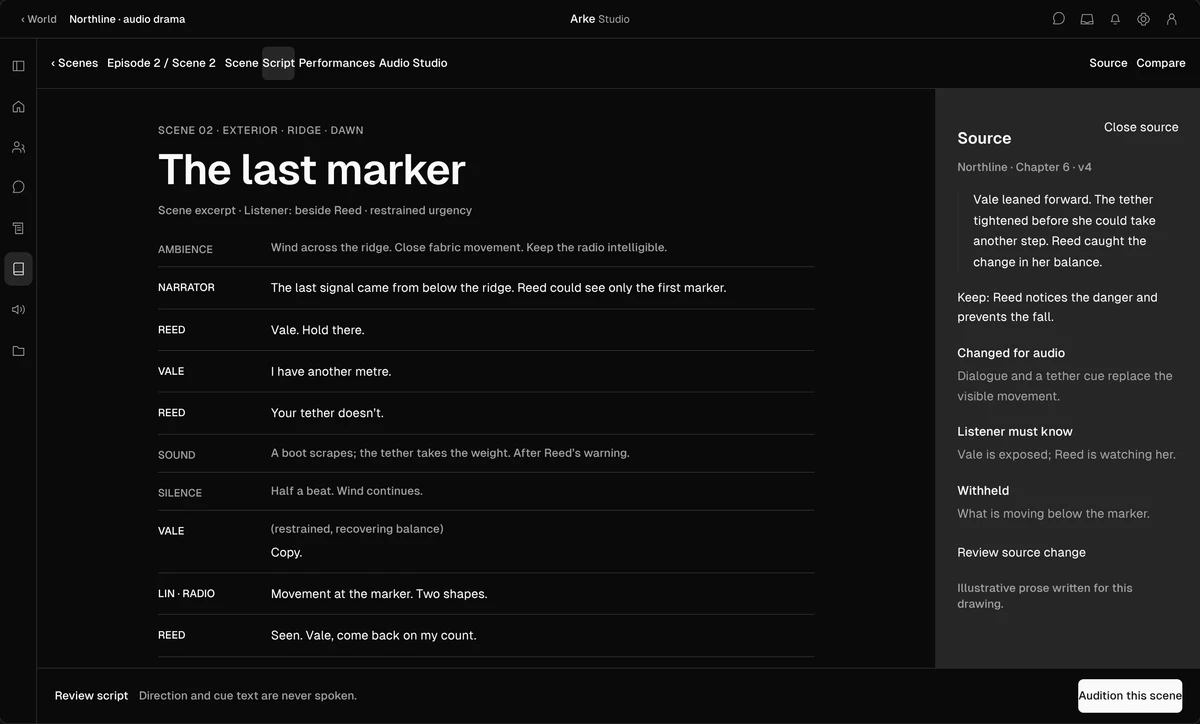
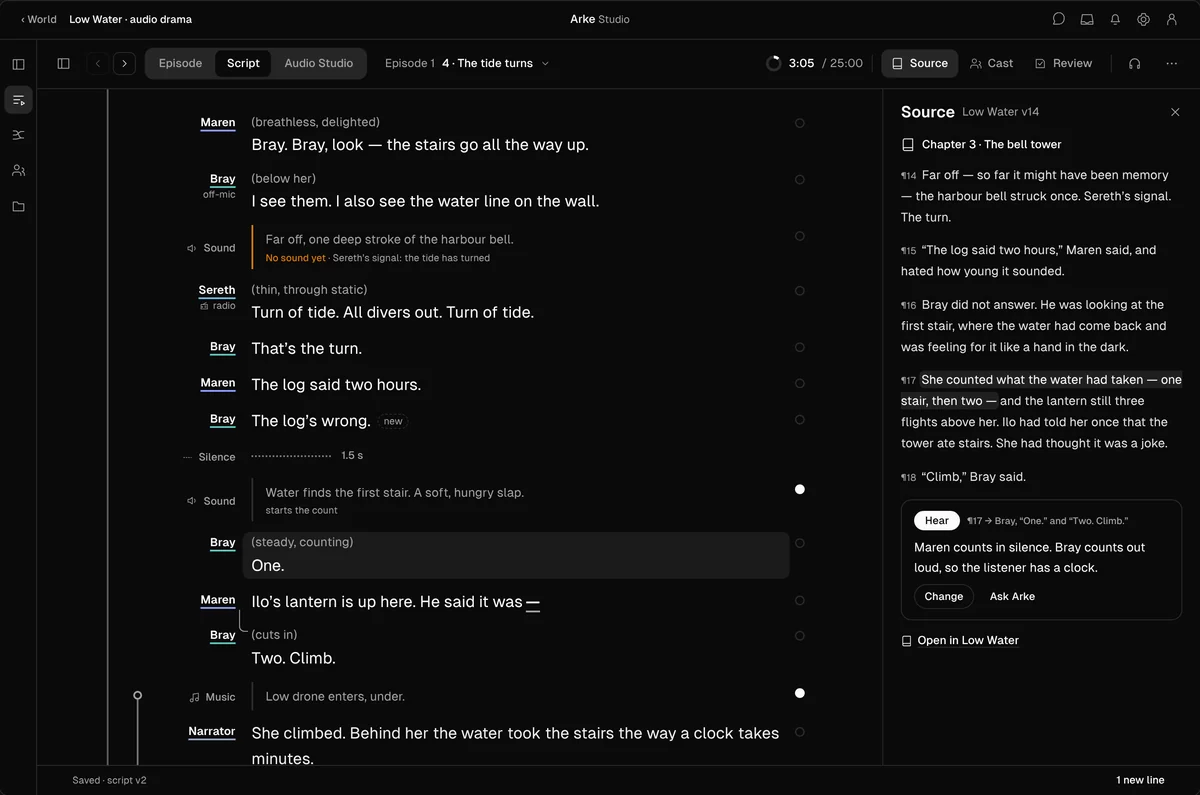
README: Audio Drama is built, and the features since are described
Audio Drama was described as a design proposal in three places; it is in the
app through to an edition. Adds sections for graphic novels, music and music
videos, Arke Player and the Guide, Arke directing a film (the Plan, the Look,
the checks), text clips and shots from another production in the cut, and
Clean up, with the status notes and What you can make brought up to date.

The new screenshots are rendered from the design master's dark theme, as the
existing ones are: turns 230, 233, 234, 238, 247, 271, 275, 277, 278, 285, 288.

Claude-Session: https://claude.ai/code/session_016gZtSHTwiva3276PZwG7kH

diff --git a/README.md b/README.md
@@ -10,7 +10,7 @@ because they share it.
 [![Latest release](https://img.shields.io/github/v/release/michaeljosiah/ArkeStudio?label=release)](https://github.com/michaeljosiah/ArkeStudio/releases/latest)
 [![Licence](https://img.shields.io/badge/licence-AGPL--3.0-black)](LICENSE)
 
-**[Write](#write-in-a-room-that-knows-your-world) · [Talk](#one-chat-from-anywhere) · [Listen](#the-book-reads-itself-aloud) · [Mix](#audio-studio) · [Publish](#publish-a-private-edition) · [Film](#from-script-to-screen) · [Anywhere](#on-every-screen-you-use)**
+**[Write](#write-in-a-room-that-knows-your-world) · [Talk](#one-chat-from-anywhere) · [Listen](#the-book-reads-itself-aloud) · [Mix](#audio-studio) · [Publish](#publish-a-private-edition) · [Film](#from-script-to-screen) · [Drama](#audio-drama) · [Draw](#graphic-novels) · [Music](#music) · [Player](#arke-player-and-the-worlds-guide) · [Anywhere](#on-every-screen-you-use)**
 
 </div>
 
@@ -18,6 +18,24 @@ because they share it.
 
 ## What's new
 
+- **Audio Drama.** A story adapted for the ear: a script of lines, sound and silence with the
+  novel beside it, takes heard in context, an episode mixed in Audio Studio and an edition
+  published as a podcast or an archive. [See it →](#audio-drama)
+- **Graphic novels.** A book planned and drawn page by page, each panel's picture and
+  lettering checked before you accept it, then read in the app or exported as CBZ, PDF and
+  EPUB. [See it →](#graphic-novels)
+- **Arke directs the film.** A place keeps its set and camera positions on a Plan, the
+  production keeps one Look, and every shot, take and cut carries a list of checks.
+  [See it →](#direct-the-film-with-arke)
+- **Music.** Albums, singles and soundtracks made from the world's music takes, sequenced
+  with gaps and crossfades. Music videos are cut to the song. [See it →](#music)
+- **Arke Player and the Guide.** Export a book, a story, a comic or an album as a package
+  for the phone app, with a Guide to the world that reveals only what a reader has reached.
+  [See it →](#arke-player-and-the-worlds-guide)
+- **More in the cut.** Text clips, clip speed and reverse, sound fades, a film grade and
+  grain, and accepted shots brought in from another production. [See it →](#text-speed-and-shots-from-elsewhere)
+- **Clean up.** A world's duplicate copies, old mixes and unused takes, sized and held
+  before anything is removed. [See it →](#clean-up-a-world)
 - **A Stage that builds the shot with you.** Arke blocks a scene in small steps you watch land:
   a room from the kit, lights, posed figures and a camera matched to a photo of the place. It
   then writes the video prompt as timed cuts, with the blockout attached. [See it →](#block-it-out-with-arke)
@@ -399,6 +417,42 @@ furniture, cars, streets and trees, each sized with numbers rather than modelled
 area and sun lights sit under one Look for the production, which sets the time of day, the sky
 and the haze.
 
+### Direct the film with Arke
+
+Arke keeps a film consistent between shots as well as inside them. The place, the look and the
+checks are each written once and carried into every generation.
+
+<table>
+<tr>
+<td width="50%" valign="top">
+<img src=".github/assets/readme-direct-plan.webp" alt="Scene 2, Gold on Gold, on its Plan view: The Club from straight above with the bar, booth and dance floor, each person on a mark in their colour, numbered camera positions drawn as wedges, and position 5, The wide, selected with its size, angle, side and lens.">
+<br><b>The Plan.</b> A place owns its set and its camera positions. A scene shows them from
+above with the cast on their marks, and a shot that crosses the line is drawn in the warning
+colour before it is made.
+</td>
+<td width="50%" valign="top">
+<img src=".github/assets/readme-direct-look.webp" alt="Production settings with a Look card: presets Naturalistic drama, Romance, Thriller, Found footage and Music video, then rows for camera, light, lens and focus, grade, cutting, sound and performance, each a choice with its own words, and the production's own checks.">
+<br><b>One Look for the production.</b> Choose a preset, then say how the camera moves, how it
+is lit and how it cuts. The look rides beneath every scene's camera and reaches the paid
+request.
+</td>
+</tr>
+<tr>
+<td width="50%" valign="top">
+<img src=".github/assets/readme-direct-take.webp" alt="Take 1 of shot 13 on the Bench with After the take open: lip sync, words, face, hands, light, joins, camera and effects each marked, one flagged, Voice nobody wrote at 7.6 seconds, with Trim to 7.4 s and Remake.">
+<br><b>Checks after a take.</b> A clip is measured when it lands: lip sync, the words spoken,
+the face against the sheet, hands, light and the camera. A fault comes with its fix, here a
+trim or a remake.
+</td>
+<td width="50%" valign="top">
+<img src=".github/assets/readme-direct-cut.webp" alt="The cut with Checks 5 of 7 open beside Export film: matched cuts, sync at the end, room tone, mouth without a line, inserts, lines over a listener and waiting, two of them with Fix.">
+<br><b>And on the cut.</b> Matched cuts, room tone, sync and shots that wait too long are
+counted beside Export film. Arke can look at a scene's cuts, a whole film on one contact
+sheet, or a finished export before it is shared.
+</td>
+</tr>
+</table>
+
 ### Atmosphere, crossfades and particles
 
 The cut is also where a film gets its air. Effects are layers with their own placement and
@@ -425,6 +479,26 @@ a whole arrangement of effects or transitions, which you review in Current and S
 adjust with the ordinary controls and apply as one undoable change — and any setting you
 protect is one its suggestions leave alone.
 
+### Text, speed and shots from elsewhere
+
+<table>
+<tr>
+<td width="50%" valign="top">
+<img src=".github/assets/readme-cut-text.webp" alt="A text clip, Harbour lights, selected on an overlay track over a harbour at dusk, with its words, typeface, weight, size, tracking, line distance and place in the Inspector.">
+<br><b>Text on the picture.</b> Add text as a clip of its own: typeface, weight, size, colour,
+edge and shadow, placed and timed like any other clip.
+</td>
+<td width="50%" valign="top">
+<img src=".github/assets/readme-cut-library.webp" alt="The cut's Library set to another production, Saltlight: its shots with an accepted take listed by scene and shot with their length, one picked with Add to Library.">
+<br><b>Shots from another production.</b> The Library reaches the world's other productions,
+so an accepted take made for one film can be placed in another.
+</td>
+</tr>
+</table>
+
+A video clip can play at another speed or backwards, a sound clip fades in and out, and a
+film grade and grain can sit over the whole picture.
+
 ## On every screen you use
 
 Arke Studio runs on your PC, and your phone reaches it. Turn on **Settings → Remote access**
@@ -448,7 +522,13 @@ same rules:
 - **Story** · novels, novellas, short fiction, screenplays and audio-first scripts, written
   chapter by chapter with the canon as editor, imported from and exported to `.docx` and EPUB,
   read aloud as a cast audiobook, mixed in Audio Studio, and published as an EPUB and M4B edition
-- **Video** · *Microdrama* (short-form episodic drama), films, music videos, and interactive
+- **Audio drama** · a story for the ear, adapted from a book in the world or started from an
+  idea, scripted, performed and mixed episode by episode
+- **Graphic novel** · a book in pages and panels, adapted or original, exported as CBZ, PDF
+  and EPUB
+- **Music** · albums, singles and soundtracks, with a track able to stand as a character's or
+  a place's theme
+- **Video** · *Microdrama* (short-form episodic drama), films, music videos cut to a song, and interactive
   branching narratives with a drawn branch map and their own player, with boards and shots
   dispatched to video models with references attached
 - **Visual novel** · an interactive story told in pictures, text and voices, authored as beats
@@ -460,29 +540,147 @@ with every production as they develop.
 
 A change to a character lands in all of them.
 
-## Coming next: Audio Drama
+## Audio Drama
 
-Audio Studio is also the start of something larger. **Audio Drama** — a production written for
-the ear, adapted from a story in the world or started from an idea — is drawn in the design
-master as a proposal awaiting review. It is not built, and these screens are a design, not
-the app.
+An audio drama is a production written for the ear. Adapt a story from the world or start
+from an idea; Arke reads the whole source before it plans, and you choose how many episodes,
+how long, and who narrates.
+
+<div align="center">
+
+<img src=".github/assets/readme-audio-drama.webp" alt="Low Water, an audio drama of six episodes from the novel: a hero picture with Play episode 1, Publish and Export, the cast as portraits with their voices, one marked no voice, and the episodes listed with Script, Cast, Performed and Mixed for each." width="100%">
+
+*The drama as listeners meet it: the cast and their voices, and each episode's way from
+script to mix.*
+
+</div>
 
 <table>
 <tr>
 <td width="50%" valign="top">
-<img src=".github/assets/readme-audio-drama-adapt.webp" alt="New production: Make it heard. Adapt a story into scenes written for voices and sound — a title, Audio Drama as the format, Adapt from Northline, a story of 18 chapters, an episode target of 20 to 30 minutes, and three approaches: Narrated drama, Ensemble drama and In-world recordings.">
-<br><b>Adapt a story for the ear.</b> Choose the source, an episode length and how it should
-sound — narrated, ensemble or in-world recordings — and plan the adaptation before a single
-voice is spent.
+<img src=".github/assets/readme-audio-drama-script.webp" alt="Episode 1's script, scene 4, The tide turns: character lines, sound, silence and music cues down the page, one line selected, and the Source panel showing the novel's paragraphs it came from and why it changed.">
+<br><b>A script that can be performed.</b> Lines, narration, sound, ambience, music and
+silence are cues on one page. Select a line and the passage of the novel it came from sits
+beside it, with the decision that was made.
 </td>
 <td width="50%" valign="top">
-<img src=".github/assets/readme-audio-drama-script.webp" alt="Scene 2, The last marker: an audio script with ambience, narrator, character lines, sound and silence cues, beside a Source drawer showing the novel passage it came from and what changed for audio.">
-<br><b>A script that can be performed.</b> Narration, dialogue, sound, ambience and silence as
-cues in the writing room, with the source passage beside every scene and nothing about the
-novel rewritten.
+<img src=".github/assets/readme-audio-drama-takes.webp" alt="The same script after an audition of ten lines: each line marked new or kept, one asking new or kept, one flagged as misheard, and a bar reading Audition 1, 10 lines, 8 kept, 2 to decide.">
+<br><b>Hear it in context.</b> Select lines and hear them in the cast's voices, priced first.
+A take that does not say its line is flagged, and a replacement waits for your choice.
+</td>
+</tr>
+<tr>
+<td width="50%" valign="top">
+<img src=".github/assets/readme-audio-drama-adaptation.webp" alt="Adaptation: the novel's eighteen chapters on the left flowing into six episodes on the right, each chapter marked Keep, Hear, Merge or Cut, and chapter 5 opened with its verdict, where it goes and what it leaves out.">
+<br><b>The adaptation is a map.</b> Every chapter is kept, shown, merged, cut, expanded or
+invented from, and says where it went. When the novel changes, the scenes adapted from it
+are named.
+</td>
+<td width="50%" valign="top">
+<img src=".github/assets/readme-audio-drama-edition.webp" alt="Publish an edition of Low Water: delivery as Podcast stereo or Archive WAV, episode 1 ready and two held back with their reasons, and what goes with it: episode audio, a listener transcript, credits, the production script as PDF and stems.">
+<br><b>Publish an edition.</b> Each episode is mixed in Audio Studio, then delivered as a
+podcast or an archive, with a listener transcript, credits and the script. An episode that
+is not ready says why.
 </td>
 </tr>
 </table>
+
+Sound effects, ambience loops and music for a cue can be generated in place, recorded or
+uploaded, and the whole of it works on a phone.
+
+## Graphic novels
+
+A graphic novel is a book in pages and panels. Adapt a story or plan an original one with
+Arke, pick a style, and work a chapter a page at a time or panel by panel.
+
+<div align="center">
+
+<img src=".github/assets/readme-comic-pages.webp" alt="Pages on chapter 1 of Low Water, drawn: the page strip, page 2's layout and its three panels with who and where they show and each line's words, the drawn page beside them, and a review under it finding panel 2's left eye lower than the right, with Make again, Accept anyway and Change with Arke." width="100%">
+
+*Pages: the script of each panel on the left, the drawn page on the right, and the review
+directly under it.*
+
+</div>
+
+A take is read back before you accept it. The lettering is compared with the script word for
+word and the picture is checked against the cast and the page before, with each finding drawn
+where it is on the page. Asked to make a chapter, Arke answers with one priced card and
+reports page by page.
+
+<table>
+<tr>
+<td width="50%" valign="top">
+<img src=".github/assets/readme-comic-read.webp" alt="Read: page 3 of 24 of Low Water, drawn, a lettered three-panel page, with Left to right, Right to left and Scroll.">
+<br><b>Read it as a reader will.</b> The accepted pages turn left to right or right to left,
+or run as one vertical scroll.
+</td>
+<td width="50%" valign="top">
+<img src=".github/assets/readme-comic-export.webp" alt="Export of Low Water, drawn: CBZ, PDF, EPUB and Arke Player, 23 of 24 pages accepted, lettering checked, reading direction, credits, and a notice that page 17 has no accepted take with Go to.">
+<br><b>Export what is accepted.</b> CBZ for comic readers, PDF, fixed-layout EPUB and an Arke
+Player package. A page that is not accepted holds the export and says which.
+</td>
+</tr>
+</table>
+
+## Music
+
+The world's music is a production of its own: an album, a single or a soundtrack, built from
+the music takes you kept on the Bench or from files you import.
+
+<table>
+<tr>
+<td width="50%" valign="top">
+<img src=".github/assets/readme-music-album.webp" alt="Songs of the Drowned Quarter, an album of nine tracks: a square cover with Make cover, Play all and Export, and the tracks in order with the take each came from, where it is heard and its length.">
+<br><b>An album from the world.</b> Each track keeps its takes, its lyrics and where it is
+heard, and can be the theme a character or a place is known by.
+</td>
+<td width="50%" valign="top">
+<img src=".github/assets/readme-music-sequence.webp" alt="Sequence: the nine tracks as waveforms, a gap or a crossfade chosen between each pair, a loudness target of minus 14 LUFS and Play through.">
+<br><b>Sequenced to play through.</b> A gap or a crossfade between each pair of tracks, and
+one loudness target for the whole album.
+</td>
+</tr>
+</table>
+
+A **music video** starts from the song. Choose one from the world or make one, mark its
+sections or let Arke propose them from the sound, and each scene keeps its place on the
+song's clock. A singer's shot carries its own slice of the song to the video model.
+
+## Arke Player and the world's Guide
+
+Arke Player is the phone app a world is read, heard and played in. Export → Arke Player
+makes one package from a book and its narration, an interactive story, a graphic novel or an
+album, and reads it back before naming it.
+
+<table>
+<tr>
+<td width="50%" valign="top">
+<img src=".github/assets/readme-guide.webp" alt="The Undersong's Guide: characters, places and lore, each with a switch for public, and each shown from the start or after a chapter.">
+<br><b>A Guide that keeps its secrets.</b> Choose which characters, places and lore are
+public, and whether each shows from the start or only after a chapter. Teasers and themes
+are chosen here too.
+</td>
+<td width="50%" valign="top">
+<img src=".github/assets/readme-player-export.webp" alt="Export audiobook, The Ledger of Nights, with Arke Player chosen beside Audiobook player, Chapter files and Video: the world, the book, the narration read whole, 131 pictures fitted for a phone, timed text, loops and an edition date, about 228 MB.">
+<br><b>One package for the phone.</b> The book, the narration, pictures fitted for a phone and
+timed text, sized before it is made. New chapters can follow later as a part.
+</td>
+</tr>
+</table>
+
+## Clean up a world
+
+A world gathers copies as it is worked on. **Clean up** measures them by kind and shows what
+each would free before anything goes.
+
+<div align="center">
+
+<img src=".github/assets/readme-cleanup.webp" alt="Clean up for Na Love or Juju, 19.2 GiB: Bench copies, reference copies, old chapter mixes, current mixes, old exports, unkept Bench takes, unused artifacts and unkept narration, each with its count, its size now and after the hold, three ticked, and Problems listed beneath." width="100%">
+
+*Duplicate copies become one file at once. Anything that could be wanted back goes to a hold
+with a date, and can be put back until then.*
+
+</div>
 
 ## Models, voices and harnesses
 
@@ -496,11 +694,12 @@ own, and a production its own again, each inheriting whatever it leaves unset.
 - **Text** · local models through Ollama, among them Gemma 4 12B, or your own cloud accounts.
 - **Images** · cloud image and video models with references attached, or local recipes run on
   your own graphics card through a managed ComfyUI: Krea 2, and Qwen Image 2.1 as a research
-  recipe whose licence allows noncommercial use only.
+  recipe whose licence allows noncommercial use only. Local video runs the same way, through
+  H3 recipes including Pika H3 Flex.
 - **Voice** · Kokoro on your machine, or Google's Gemini voices, ElevenLabs, Mistral's Voxtral,
   BreezeBlue's Breeze TTS 2 and Fish Audio's S2.1-Pro as hosted readers. A voice can be designed
   from a character's sheet. A read longer than a reader's limit is split at sentence ends and
-  plays as the pieces arrive.
+  plays as the pieces arrive. Sound effects and music for a cue come from ElevenLabs.
 
 ## Get it
 
@@ -573,7 +772,7 @@ drawn the same way, in a versioned design master
 ([`design-system/Arke Studio.dc.html`](design-system/Arke%20Studio.dc.html)), before a line of
 the screen's own code exists. The screenshots in this README are rendered from that master: the
 approved drawings the app is built against. The running app follows them closely but not pixel
-for pixel, and the Audio Drama screens are a proposal that has not been built.
+for pixel.
 
 The specification set is not published with the code. It is the design record rather than the
 product, and it stays private. That is worth knowing before you read far, because the code cites
@@ -646,18 +845,33 @@ chapter mix; and private EPUB and M4B editions.
 
 **The cut has effects and transitions.** Atmosphere presets with optional audio reaction, Air
 Particles with physics, blend modes and crossfades at fixed cuts, each with Arke suggestions
-reviewed before they apply.
+reviewed before they apply; text clips, clip speed and reverse, sound fades, and a grade and
+grain over the picture.
 
 **Video publications compile and play.** A cut becomes a portable, verified edition with
 selectable captions, delivered as a folder or ZIP and played from Publications. Interactive
-video is not yet a publication profile.
+video is not yet a publication profile; it exports as a web package or an Arke Player package.
 
 **The reusable engine and standalone Node host are available from source.** Desktop and browser
 hosts share Studio's application services; the public engine exposes a bounded set of those
 capabilities for other Node products.
 
-**Audio Drama is a design proposal.** It is drawn in the design master for review and is not
-in the app.
+**Audio Drama is built through to an edition.** Setup from a story, the episode script with its
+source, takes and generated sound, cast, review, the adaptation map, the episode in Audio
+Studio, and podcast and archive editions.
+
+**Graphic novels are built through to export.** Planning and drafting with Arke, Pages with
+lettering and picture review, Read, and CBZ, PDF, EPUB and Arke Player export.
+
+**Music productions and music videos are built.** Albums, singles and soundtracks with a
+sequence and a loudness target; a music video's song, its sections and each scene's place on it.
+
+**Arke directs a film's shots.** A place's Plan, a production's Look, and checks before a shot,
+after a take and on the cut.
+
+**Arke Player packages are made from source.** Books, parts, interactive stories, graphic novels
+and albums export as packages, with the world's Guide. Listing a world in the Player is a
+separate, owner-run step.
 
 **Cloud experience is named but not yet connected.** The launch screen already offers "Arke Studio
 Cloud — access your worlds anywhere. Sync, collaborate, create" but integration with Aonik
